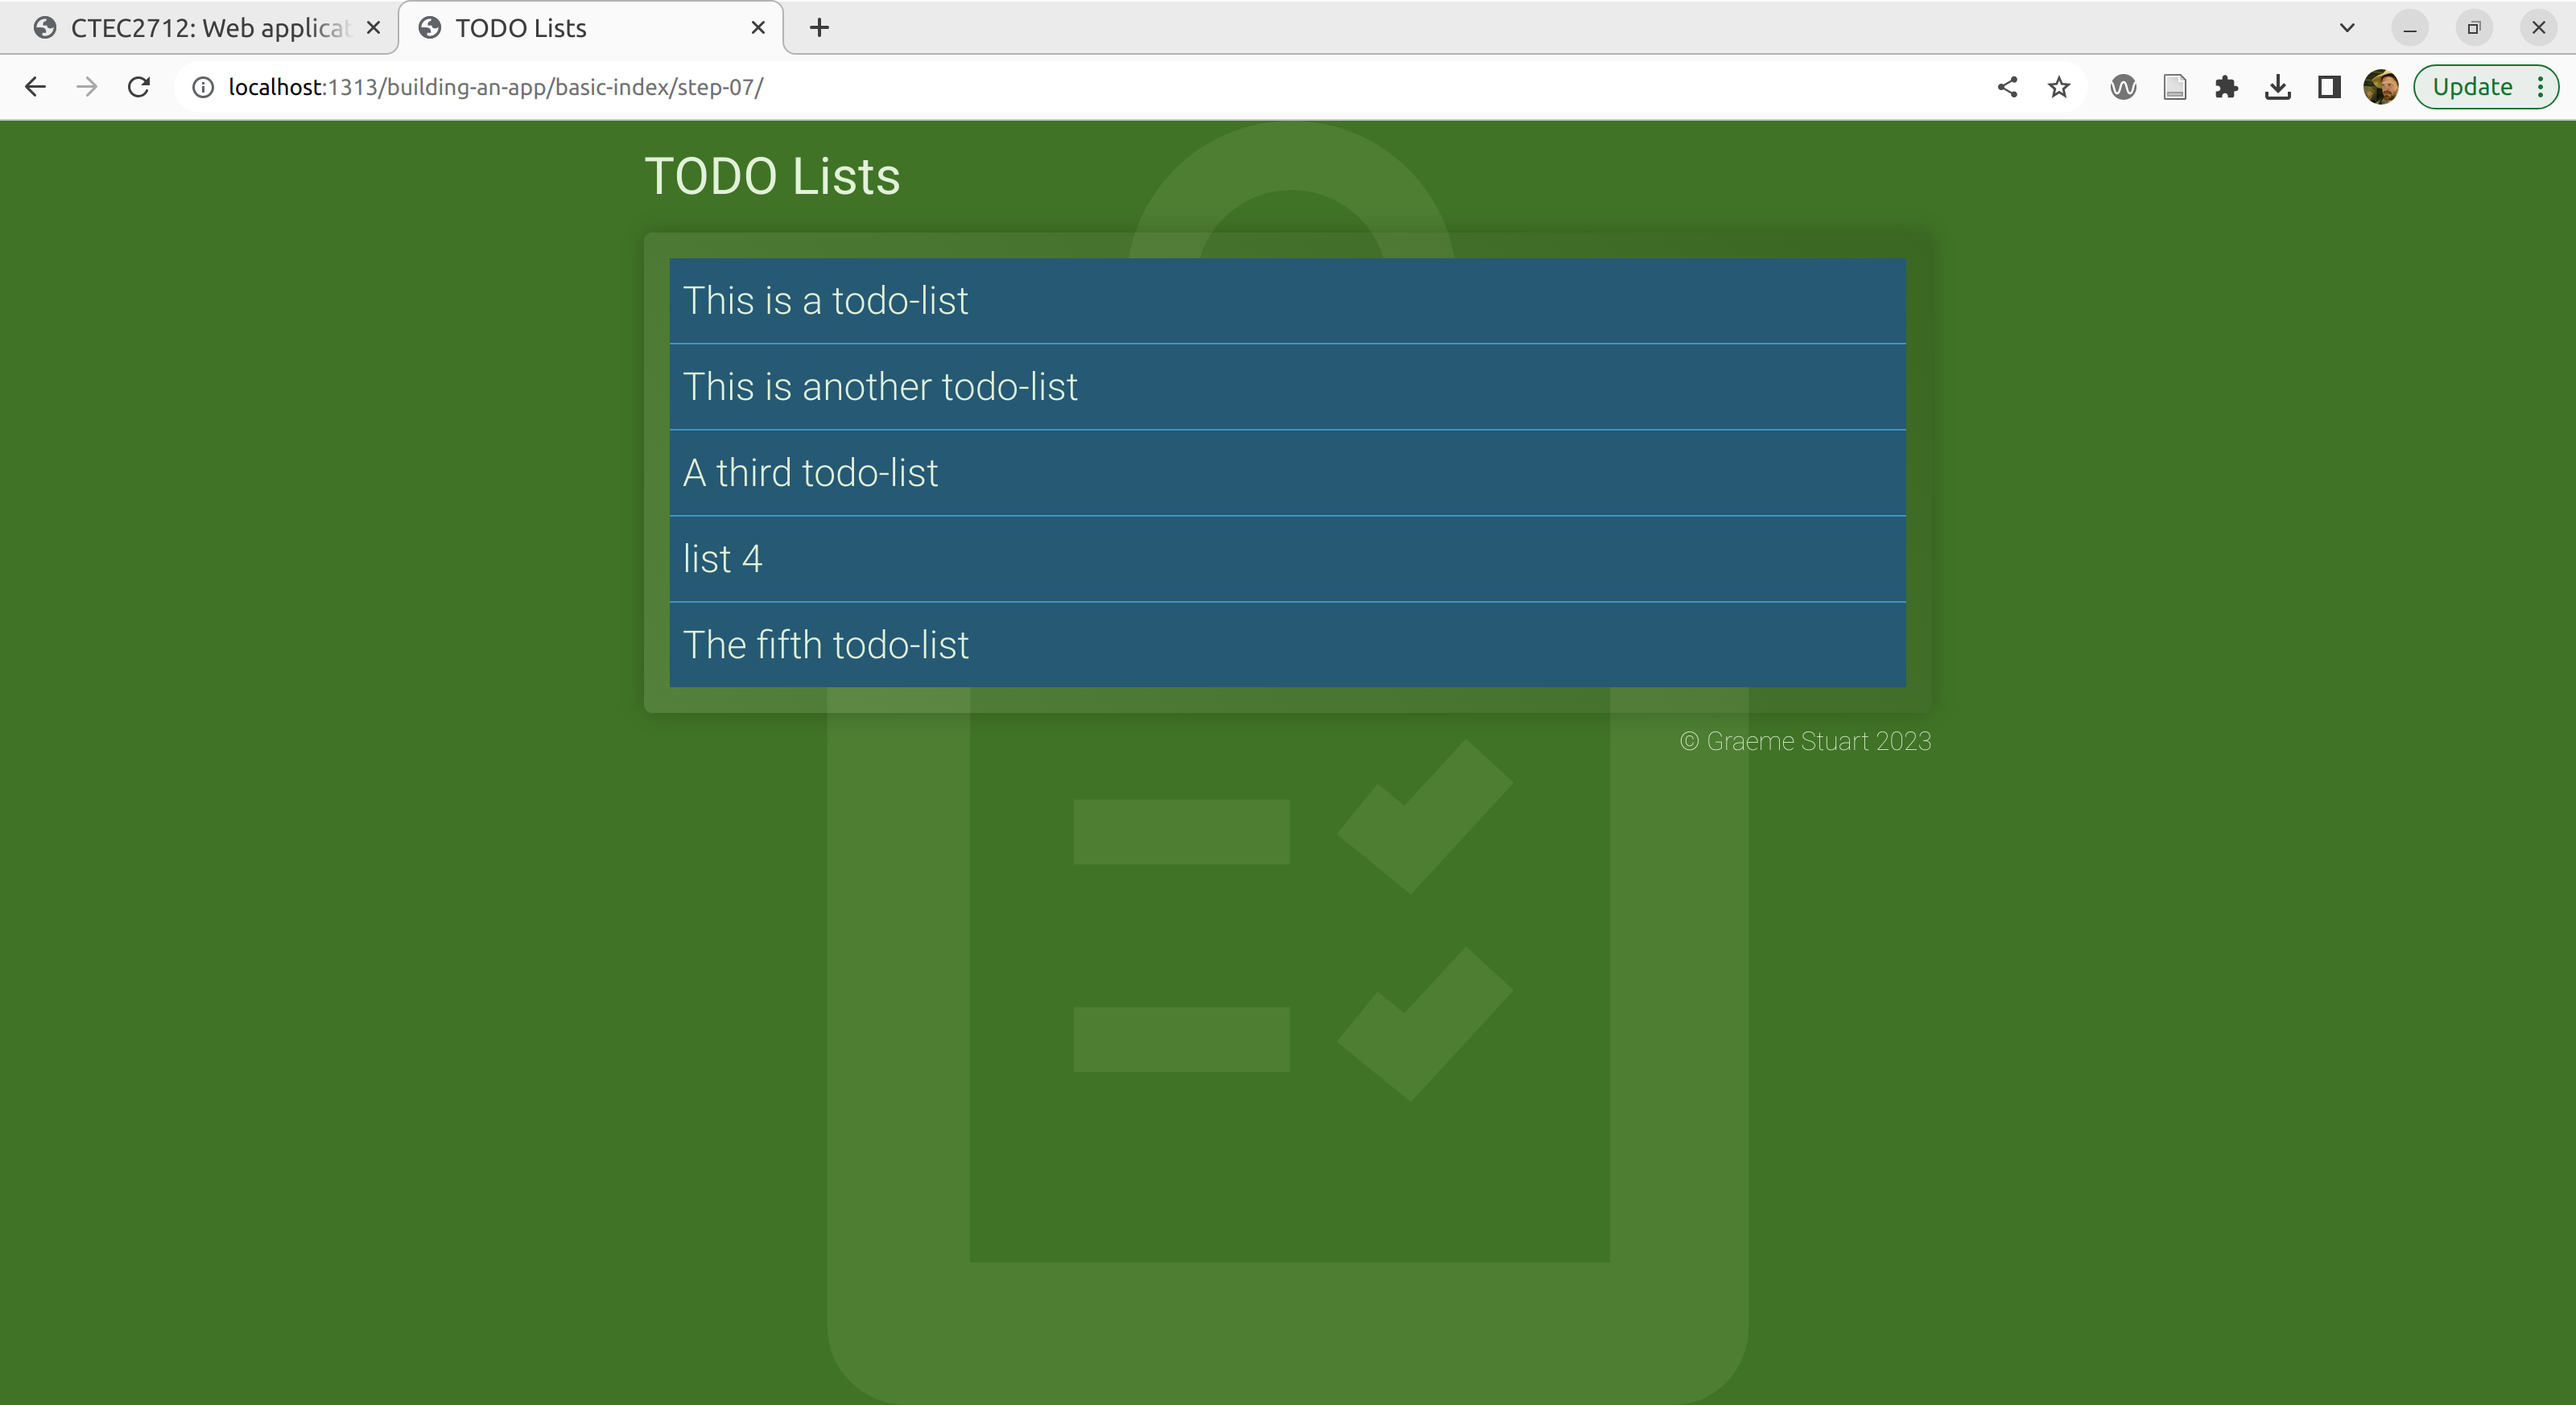
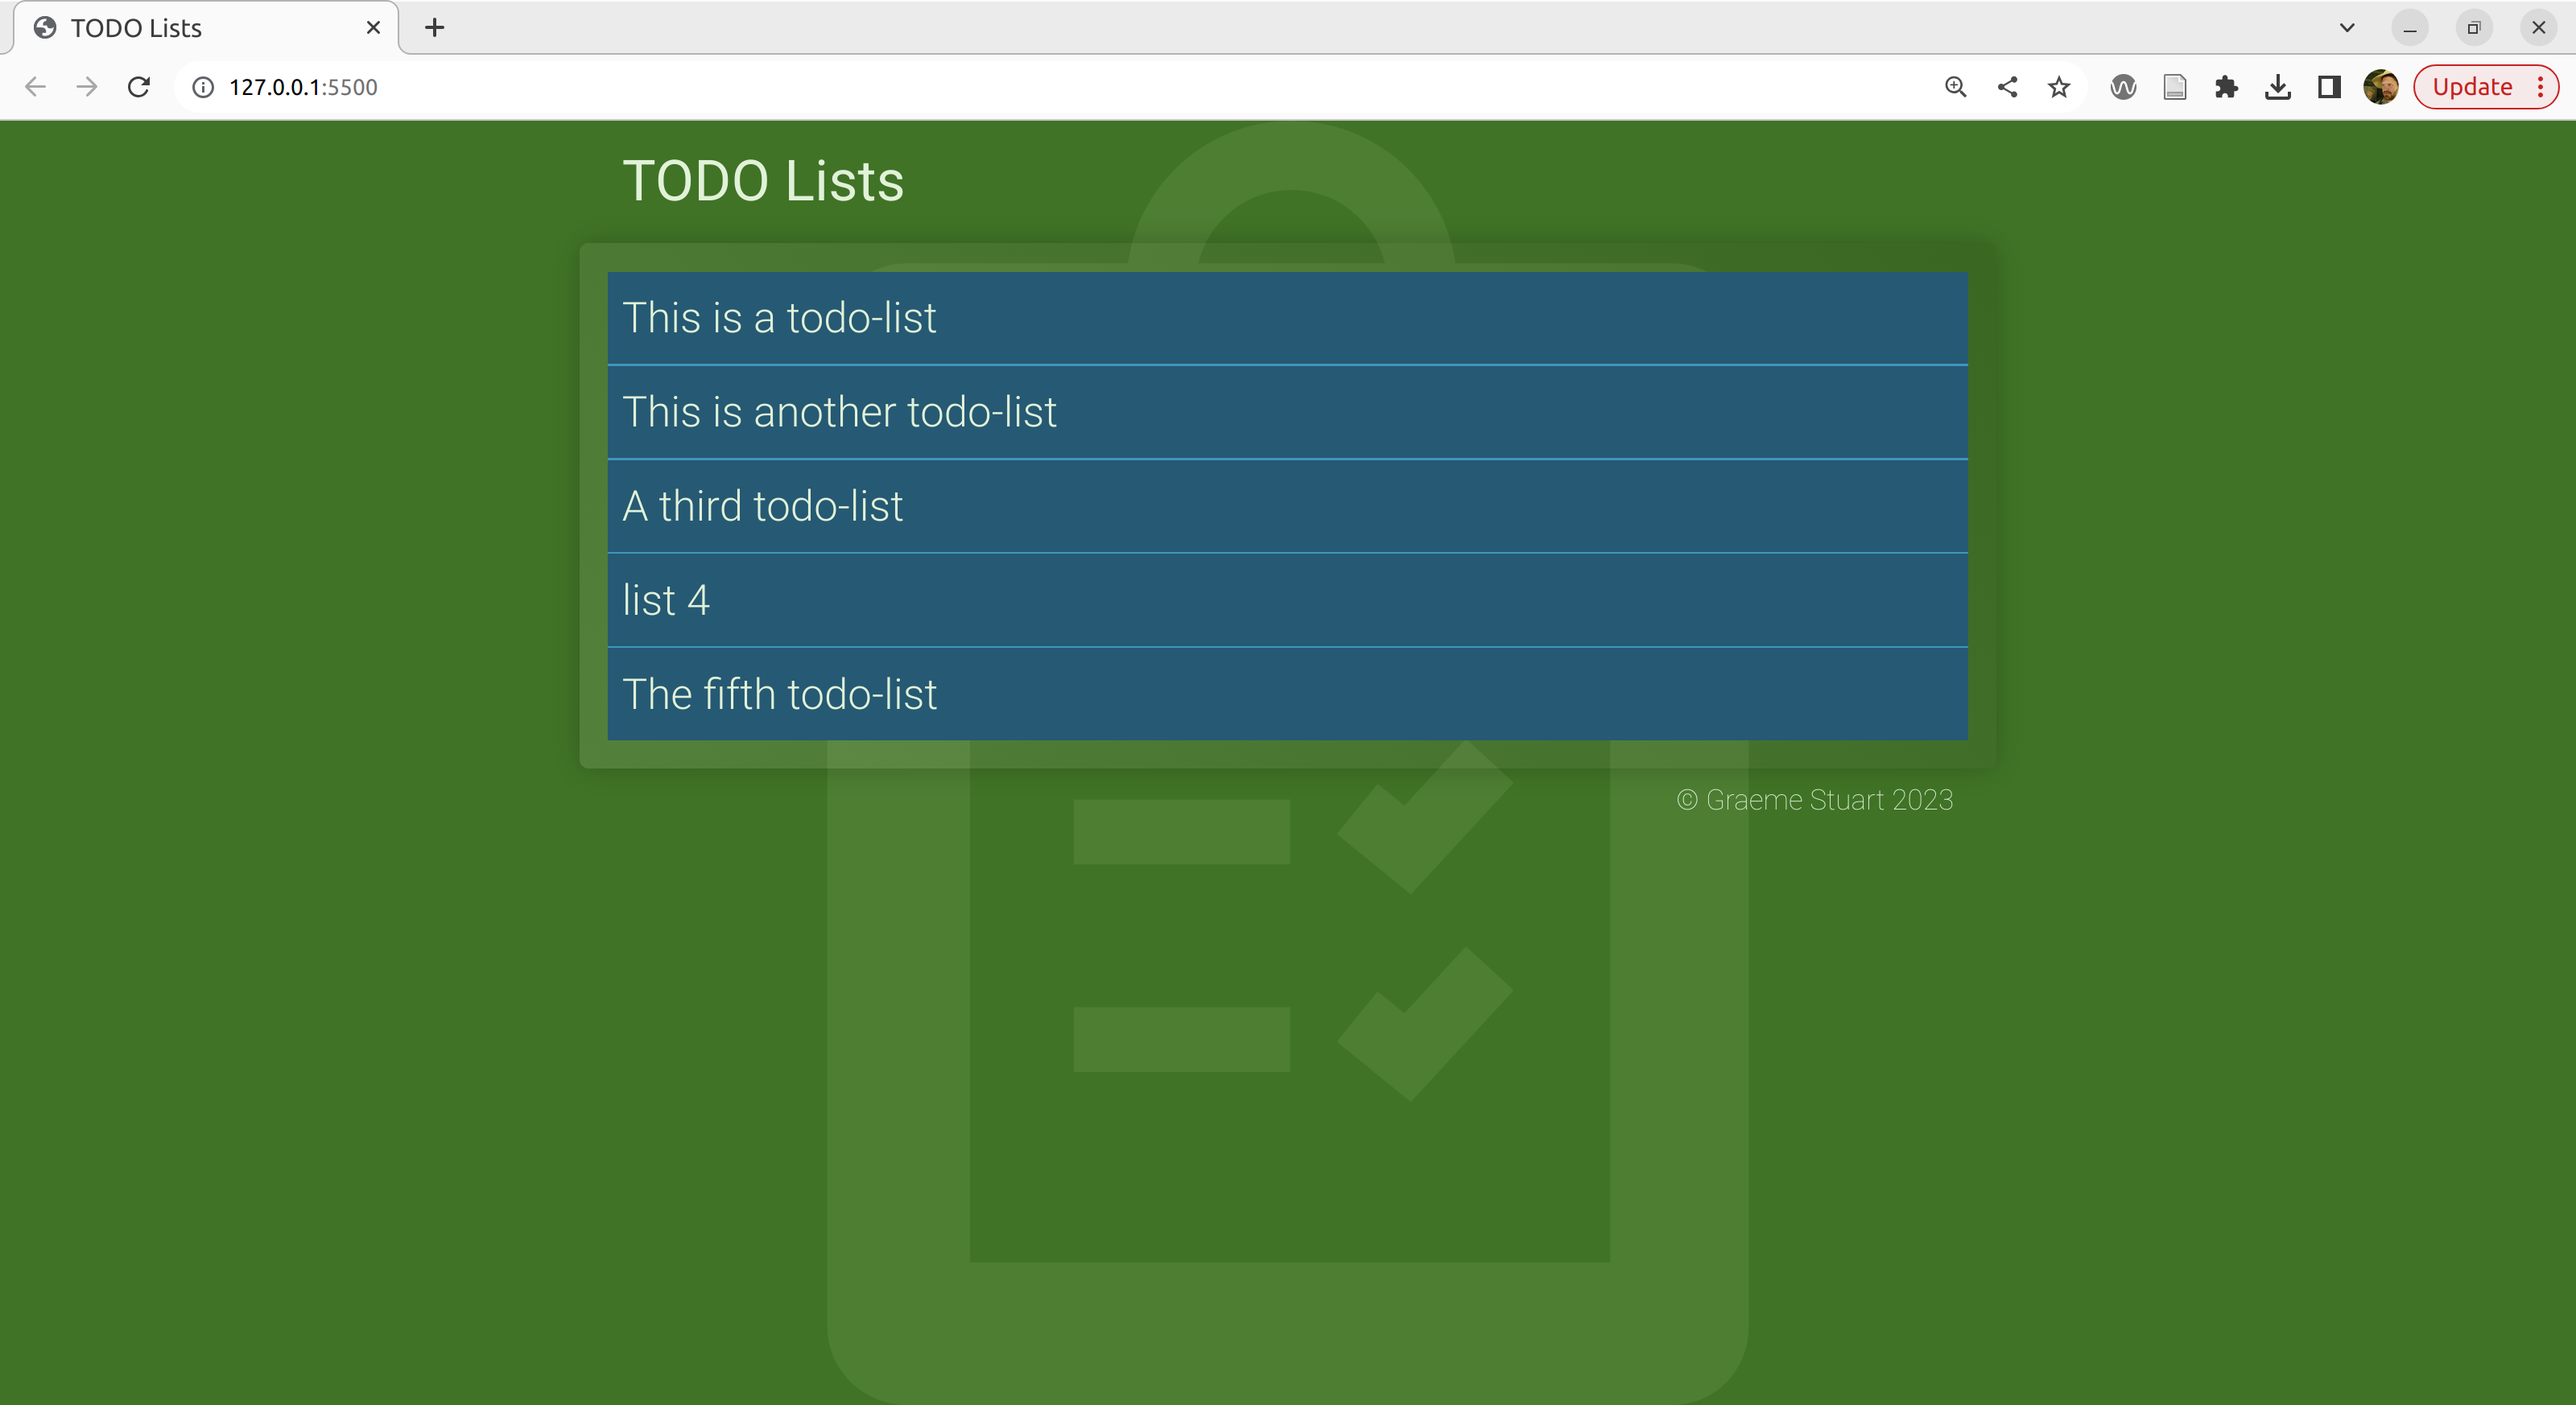
upgrade design exercise

Changed region(s): [[0.2188, 0.1856, 0.7812, 0.5258], [0.0312, 0.0, 0.3438, 0.1546], [0.9375, 0.0309, 0.9688, 0.0928]]

diff --git a/content/building-an-app/design/index.md b/content/building-an-app/design/index.md
@@ -141,10 +141,10 @@ This is fine for smaller devices but at larger screen sizes it looks a bit weird
 We need to add some responsiveness.
 Its a very simple interface so far so nothing complicated is needed.
 
-We will set a `max-width` on the `<main>`, `<h1>` and the `<p>` inside the `<footer>` with `margin-inline: auto` to keep everything centred.
+We will set a `max-width` on the `<body>` with `margin-inline: auto` to keep everything centred.
 We also put some styles on the `<main>` element to give it some space and make it a bit fancier with a `linear-gradient` and `box-shadow`.
 
-```css {hl_lines="6 52-66"}
+```css {hl_lines="6 14-15 53-66"}
 @import url('https://fonts.googleapis.com/css2?family=Roboto:wght@100;300;400&display=swap');
 
 * {
@@ -158,6 +158,8 @@ body {
     color: hsl(100 50% 90%);
     font-family: "Roboto";
     font-weight: 200;
+    max-width: 800px;
+    margin-inline: auto;
 }
 
 h1 {
@@ -196,13 +198,6 @@ li {
     overflow: auto;
 }
 
-main,
-h1,
-footer p {
-    max-width: 800px;
-    margin-inline: auto;
-}
-
 @media (width>=800px) {
     main {
         padding: 1rem;
@@ -210,12 +205,18 @@ footer p {
         border-radius: 5px;
         box-shadow: 0 0 15px hsl(0 0% 0% / 0.2);
     }
+
+    header,
+    footer {
+        padding-inline: 1.5rem;
+    }
 }
 
 footer {
     text-align: right;
 }
 ```
+We've also added a bit more padding to the header and footer to make all the text line up vertically.
 
 > If you're not sure about any of these additions, try removing them using the devTools.
 > Most of them have a clear effect.
@@ -228,16 +229,24 @@ The result won't win any design awards, but [it's *good enough*](step-06).
 
 Adding background images is a good way to make a site a bit more interesting.
 
-Save [this file](images/to-do-list.svg) to your project folder and update the CSS as follows.
+Save {{<a href="images/to-do-list.svg" download="to-do-list.svg" >}}this file{{< /a >}} to your project folder and update the CSS as follows.
 
-```css {hl_lines="8-13"}
+```css {hl_lines="16-21"}
 @import url('https://fonts.googleapis.com/css2?family=Roboto:wght@100;300;400&display=swap');
+
+* {
+    margin: 0;
+    padding: 0;
+    box-sizing: border-box;
+}
+
 body {
     background-color: hsl(100 50% 30%);
     color: hsl(100 50% 90%);
-    margin: 0;
     font-family: "Roboto";
     font-weight: 200;
+    max-width: 800px;
+    margin-inline: auto;
     background-image: url(to-do-list.svg);
     background-blend-mode: soft-light;
     background-repeat: no-repeat;
@@ -245,51 +254,59 @@ body {
     background-position: bottom center;
     min-height: 100dvh;
 }
-header {
-    backdrop-filter: brightness(0.8);
-    overflow: auto;
-}
-header, footer {
-    padding-inline: 0.5rem;
-}
+
 h1 {
     font-weight: 400;
 }
+
 h2 {
     font-weight: 300;
 }
+
 ul {
     list-style: none;
-    padding: 0;
     background-color: hsl(200 50% 50%);
     display: grid;
     gap: 1px;
-    margin: 0;
 }
-li.todo-list {
+
+li {
     backdrop-filter: brightness(0.6);
-    padding: 0.5rem;
 }
-li.todo-list h2 {
-    margin: 0;
+
+header,
+li,
+footer {
+    padding-inline: 0.5rem;
 }
+
+h1,
+h2,
+p {
+    margin-block: 0.5em;
+}
+
+header,
+li {
+    overflow: auto;
+}
+
+@media (width>=800px) {
+    main {
+        padding: 1rem;
+        background: linear-gradient(45deg, hsl(0 0% 100% / 0.1), hsl(0 0% 0% / 0.1));
+        border-radius: 5px;
+        box-shadow: 0 0 15px hsl(0 0% 0% / 0.2);
+    }
+
+    header,
+    footer {
+        padding-inline: 1.5rem;
+    }
+}
+
 footer {
     text-align: right;
-}
-main, h1, footer {
-    max-width: 500px;
-    margin-inline: auto;
-}
-@media (width >=600px) {
-    main {
-        font-size: 1.1em;
-        padding: 1rem;
-        background: linear-gradient(45deg, hsl(100, 50%, 25%), hsl(100, 50%, 35%));
-        border-radius: 5px;
-        box-shadow: 0 0 15px hsl(0 0% 0% / 0.4);
-        margin: 1rem auto;
-        box-sizing: border-box;
-    }
 }
 ```
 
